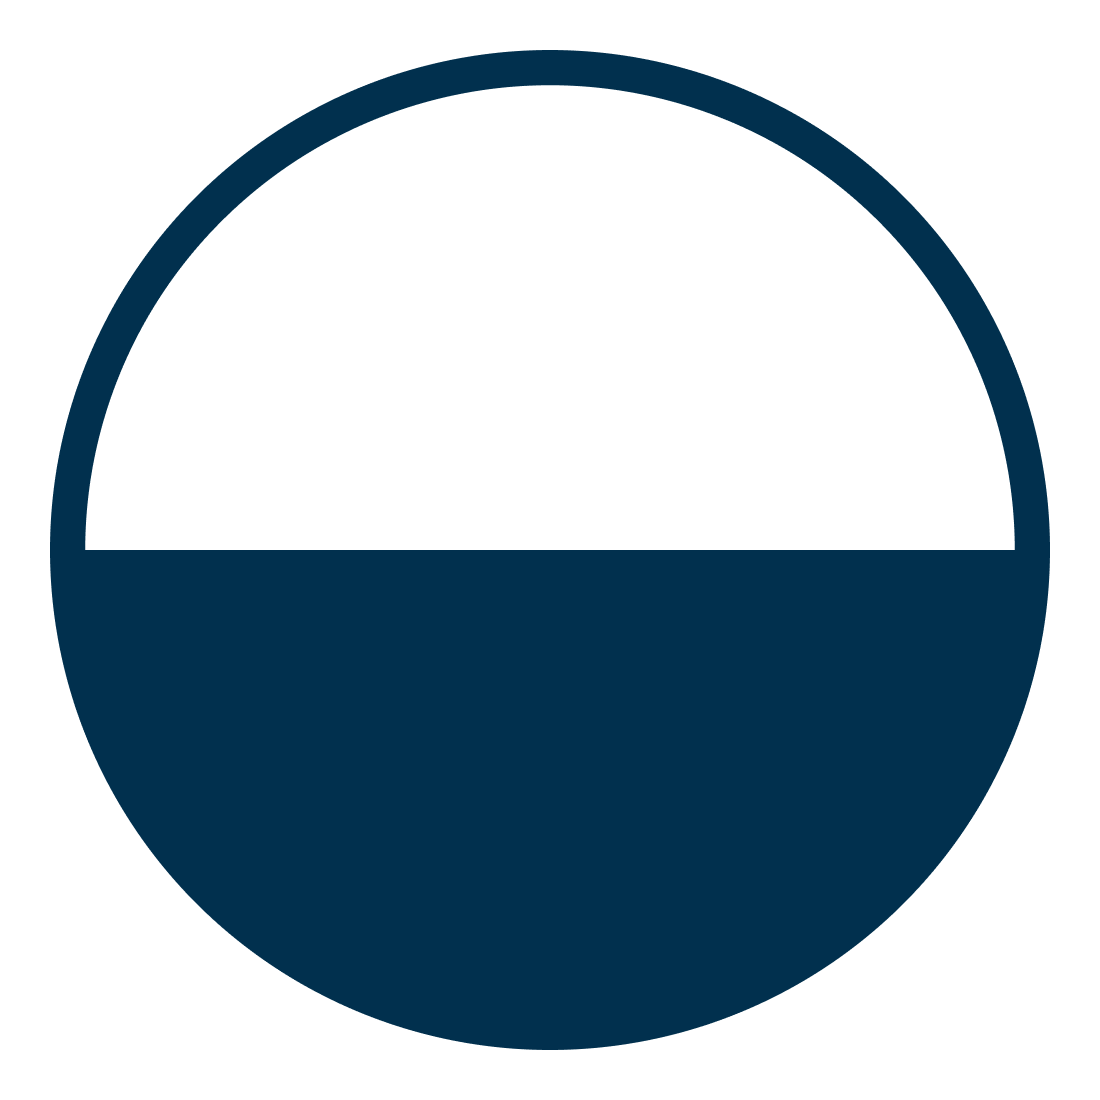
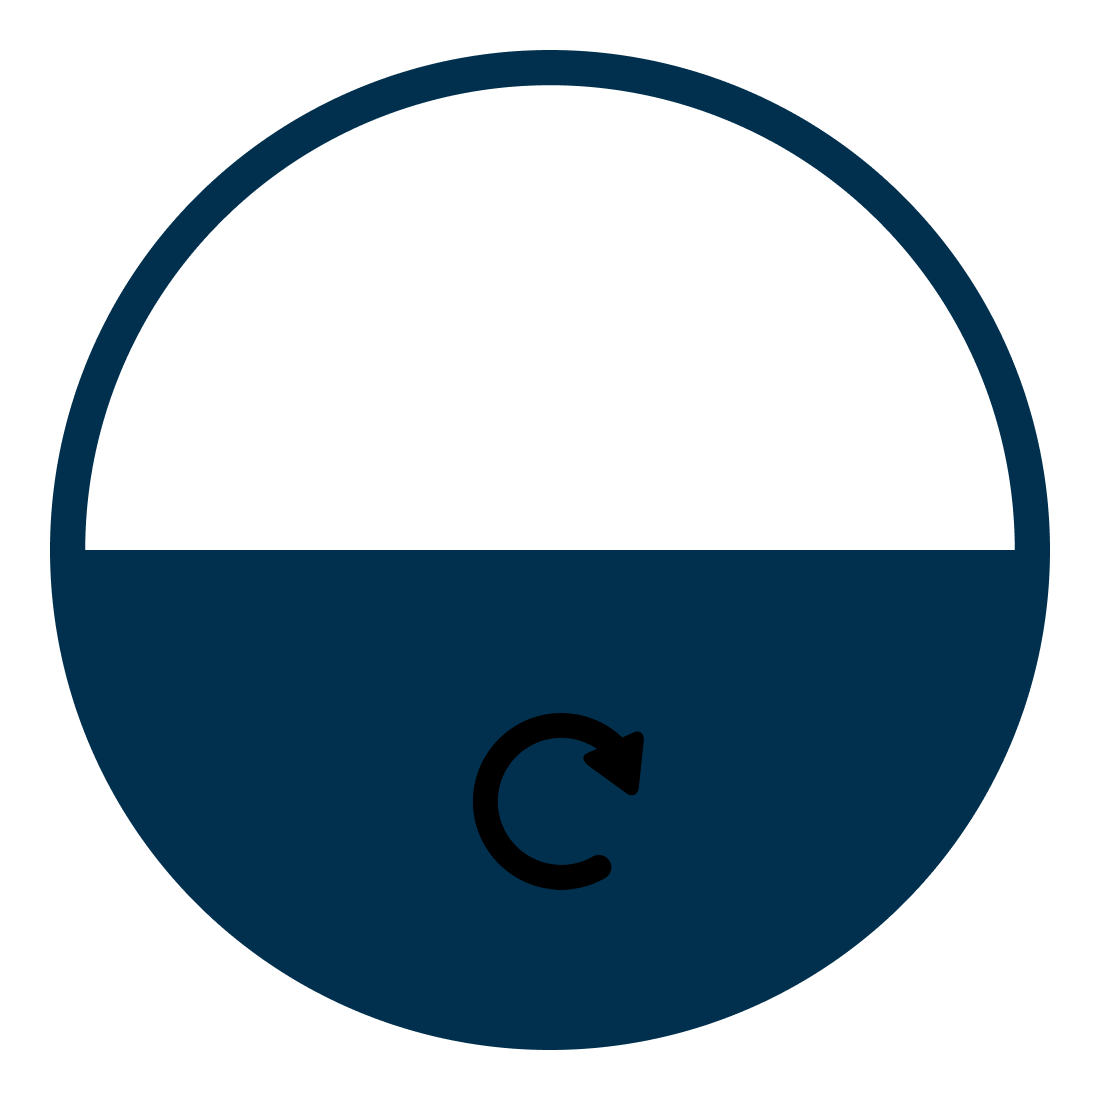
added animations

Changed region(s): [[0.4327, 0.6491, 0.5873, 0.8345]]

diff --git a/lib/util/wheel.dart b/lib/util/wheel.dart
@@ -1,0 +1,182 @@
+import 'dart:math';
+
+import 'package:flutter/material.dart';
+import 'package:wavelength/models/wheel_behaviour.dart';
+
+class Wheel extends StatefulWidget {
+  final String
+  phase; //can be 'psychic_spin', 'player_guessing' or 'reveal_result'
+  const Wheel({super.key, required this.phase});
+
+  @override
+  State<Wheel> createState() => _WheelState();
+}
+
+class _WheelState extends State<Wheel> with SingleTickerProviderStateMixin {
+  late String phase;
+  double coverTurn = 0.0;
+  double wheelTurn = 0.0;
+  double needleTurn = 0.0;
+  bool isCoverVisible = true;
+  late WheelBehavior behavior;
+
+  late AnimationController inertiaController;
+  late Animation<double> inertiaAnimation;
+  void toggleCover() {
+    setState(() {
+      coverTurn = -0.5;
+      isCoverVisible = false;
+    });
+  }
+
+  void spinWheel(double dx) {
+    setState(() {
+      wheelTurn += dx;
+    });
+  }
+
+  void updateNeedle(Offset localPosition, Size size) {
+    double centerX = size.width / 2;
+    double centerY = size.height / 2;
+
+    //formam sistem de coordonate relativ la axul rotii, normal localPosition ar veni unde pe tot ecranul
+    double dx = localPosition.dx - centerX;
+    double dy = localPosition.dy - centerY;
+
+    //atan iti da unde pe cerc trigonometric
+    double radians =
+        atan2(dy, dx) +
+        (pi /
+            2); // +pi/2 fiindca in geom 0 radiani e ora 3, dar sageata la noi sta in sus default (adica la 12)
+    double turns = radians / (2 * pi);
+
+    //fara astea doua daca iti misti degetul mai mult de jumate acul va sari
+    if (turns > 0.5) turns -= 1.0;
+    if (turns < -0.5) turns += 1.0;
+
+    double clampedTurns = turns.clamp(
+      -0.25,
+      0.25,
+    ); //limitez valori turn ai sa nu merg sub frame
+
+    setState(() {
+      needleTurn = clampedTurns;
+    });
+  }
+
+  void handleFling(DragEndDetails details) {
+    double velocity = details.primaryVelocity ?? 0;
+
+    if (velocity.abs() < 100) return; //daca e prea mic nu fac nimic
+
+    double distance =
+        velocity / 1000; //calculez dist pe care trebuie sa o parcurg
+
+    inertiaAnimation =
+        Tween<double>(
+            begin: wheelTurn, //incep de la pozitia curenta
+            end: wheelTurn + (distance / 5), //pana la asta
+          ).animate(
+            CurvedAnimation(
+              //aplic fizica
+              parent: inertiaController,
+              curve: Curves.decelerate,
+            ),
+          )
+          ..addListener(() {
+            //actualizez variabila
+            setState(() {
+              wheelTurn = inertiaAnimation.value;
+            });
+          });
+
+    inertiaController.forward(from: 0);
+  }
+
+  @override
+  void initState() {
+    super.initState();
+    phase = widget.phase;
+    behavior = gamePhases[phase]!;
+    inertiaController = AnimationController(
+      vsync: this,
+      duration: const Duration(milliseconds: 1500),
+    );
+  }
+
+  @override
+  Widget build(BuildContext context) {
+    return Center(
+      child: AspectRatio(
+        aspectRatio: 1.0,
+        child: Stack(
+          alignment: Alignment.center,
+          children: [
+            // 1. WHEEL
+            AnimatedRotation(
+              turns: wheelTurn,
+              duration: const Duration(milliseconds: 50),
+              child: Image.asset('assets/images/wheel.png'),
+            ),
+
+            // 2. LOGIC FOR WHEEL AND COVER
+            GestureDetector(
+              onHorizontalDragDown: (_) => inertiaController.stop(),
+              onHorizontalDragUpdate: (details) {
+
+                if (behavior.isCoverRevealable && details.delta.dx < -0.9) { //any movement to the left will reveal cover
+                  toggleCover();
+                  behavior = gamePhases["reveal_result"]!;
+                } else if (behavior.isWheelSpinnable) {
+                  setState(() {
+                    wheelTurn +=
+                        details.delta.dx / 500;
+                  });
+                }
+              },
+
+              //inertia
+              onHorizontalDragEnd: (details) {
+                if (behavior.isWheelSpinnable) handleFling(details);
+              },
+              child: AnimatedRotation(
+                turns: coverTurn,
+                duration: const Duration(milliseconds: 600),
+                curve: Curves.easeInOut,
+                child: Image.asset('assets/images/cover.png'),
+              ),
+            ),
+
+            // 3. FRAME
+            IgnorePointer(child: Image.asset('assets/images/frame.png')),
+
+            // 4. NEEDLE
+            IgnorePointer(
+              ignoring: !behavior.isNeedleDraggable,
+              child: GestureDetector(
+                onPanUpdate: (details) {
+                  updateNeedle(details.localPosition, context.size!);
+                },
+                child: AnimatedRotation(
+                  turns: needleTurn,
+                  duration: const Duration(milliseconds: 50),
+                  child: Visibility(
+                    visible: behavior.isNeedleDraggable,
+                    child: Image.asset('assets/images/needle.png')),
+                ),
+              ),
+            ),
+
+            // 5. KNOB
+            IgnorePointer(
+              child: Visibility(
+                visible: isCoverVisible,
+                child: Image.asset('assets/images/cover_knob.png'),
+              ),
+            ),
+          ],
+        ),
+      ),
+    );
+  }
+}

diff --git a/lib/pages/game_phases/psychic_spin.dart b/lib/pages/game_phases/psychic_spin.dart
@@ -1,24 +1,18 @@
 import 'package:flutter/material.dart';
+import 'package:wavelength/util/wheel.dart';
 
-class PsychicSpin extends StatelessWidget {
+class PsychicSpin extends StatefulWidget {
   final VoidCallback nextStep;
   const PsychicSpin({super.key, required this.nextStep});
 
   @override
+  State<PsychicSpin> createState() => _PsychicSpinState();
+}
+
+class _PsychicSpinState extends State<PsychicSpin> {
+
+  @override
   Widget build(BuildContext context) {
-    return Center(
-      child: AspectRatio(
-        aspectRatio: 1.0,
-        child: Stack(
-          alignment: Alignment.center,
-          children: [
-            Image.asset('assets/images/wheel.png'),
-            Image.asset('assets/images/cover.png'),
-            Image.asset('assets/images/frame.png'),
-            Image.asset('assets/images/needle.png'),
-          ],
-        ),
-      ),
-    );
+    return Wheel(phase: "psychic_spin");
   }
 }

diff --git a/lib/models/wheel_behaviour.dart b/lib/models/wheel_behaviour.dart
@@ -1,0 +1,32 @@
+class WheelBehavior {
+  bool isWheelSpinnable; 
+  bool isNeedleDraggable;
+  bool isCoverRevealable;
+  double initialCoverTurns;
+
+  WheelBehavior({
+    this.isWheelSpinnable = false,
+    this.isNeedleDraggable = false,
+    this.isCoverRevealable = false,
+    this.initialCoverTurns = 0.0,
+  });
+}
+
+final Map<String, WheelBehavior> gamePhases = {
+  'psychic_spin': WheelBehavior(
+    isWheelSpinnable: true,
+    isNeedleDraggable: false,
+    isCoverRevealable: true,
+  ),
+  'player_guessing': WheelBehavior(
+    isWheelSpinnable: false,
+    isNeedleDraggable: true,
+    isCoverRevealable: false,
+  ),
+  'reveal_result': WheelBehavior(
+    isWheelSpinnable: false,
+    isNeedleDraggable: false,
+    isCoverRevealable: true,
+    initialCoverTurns: 0.0,
+  ),
+};
